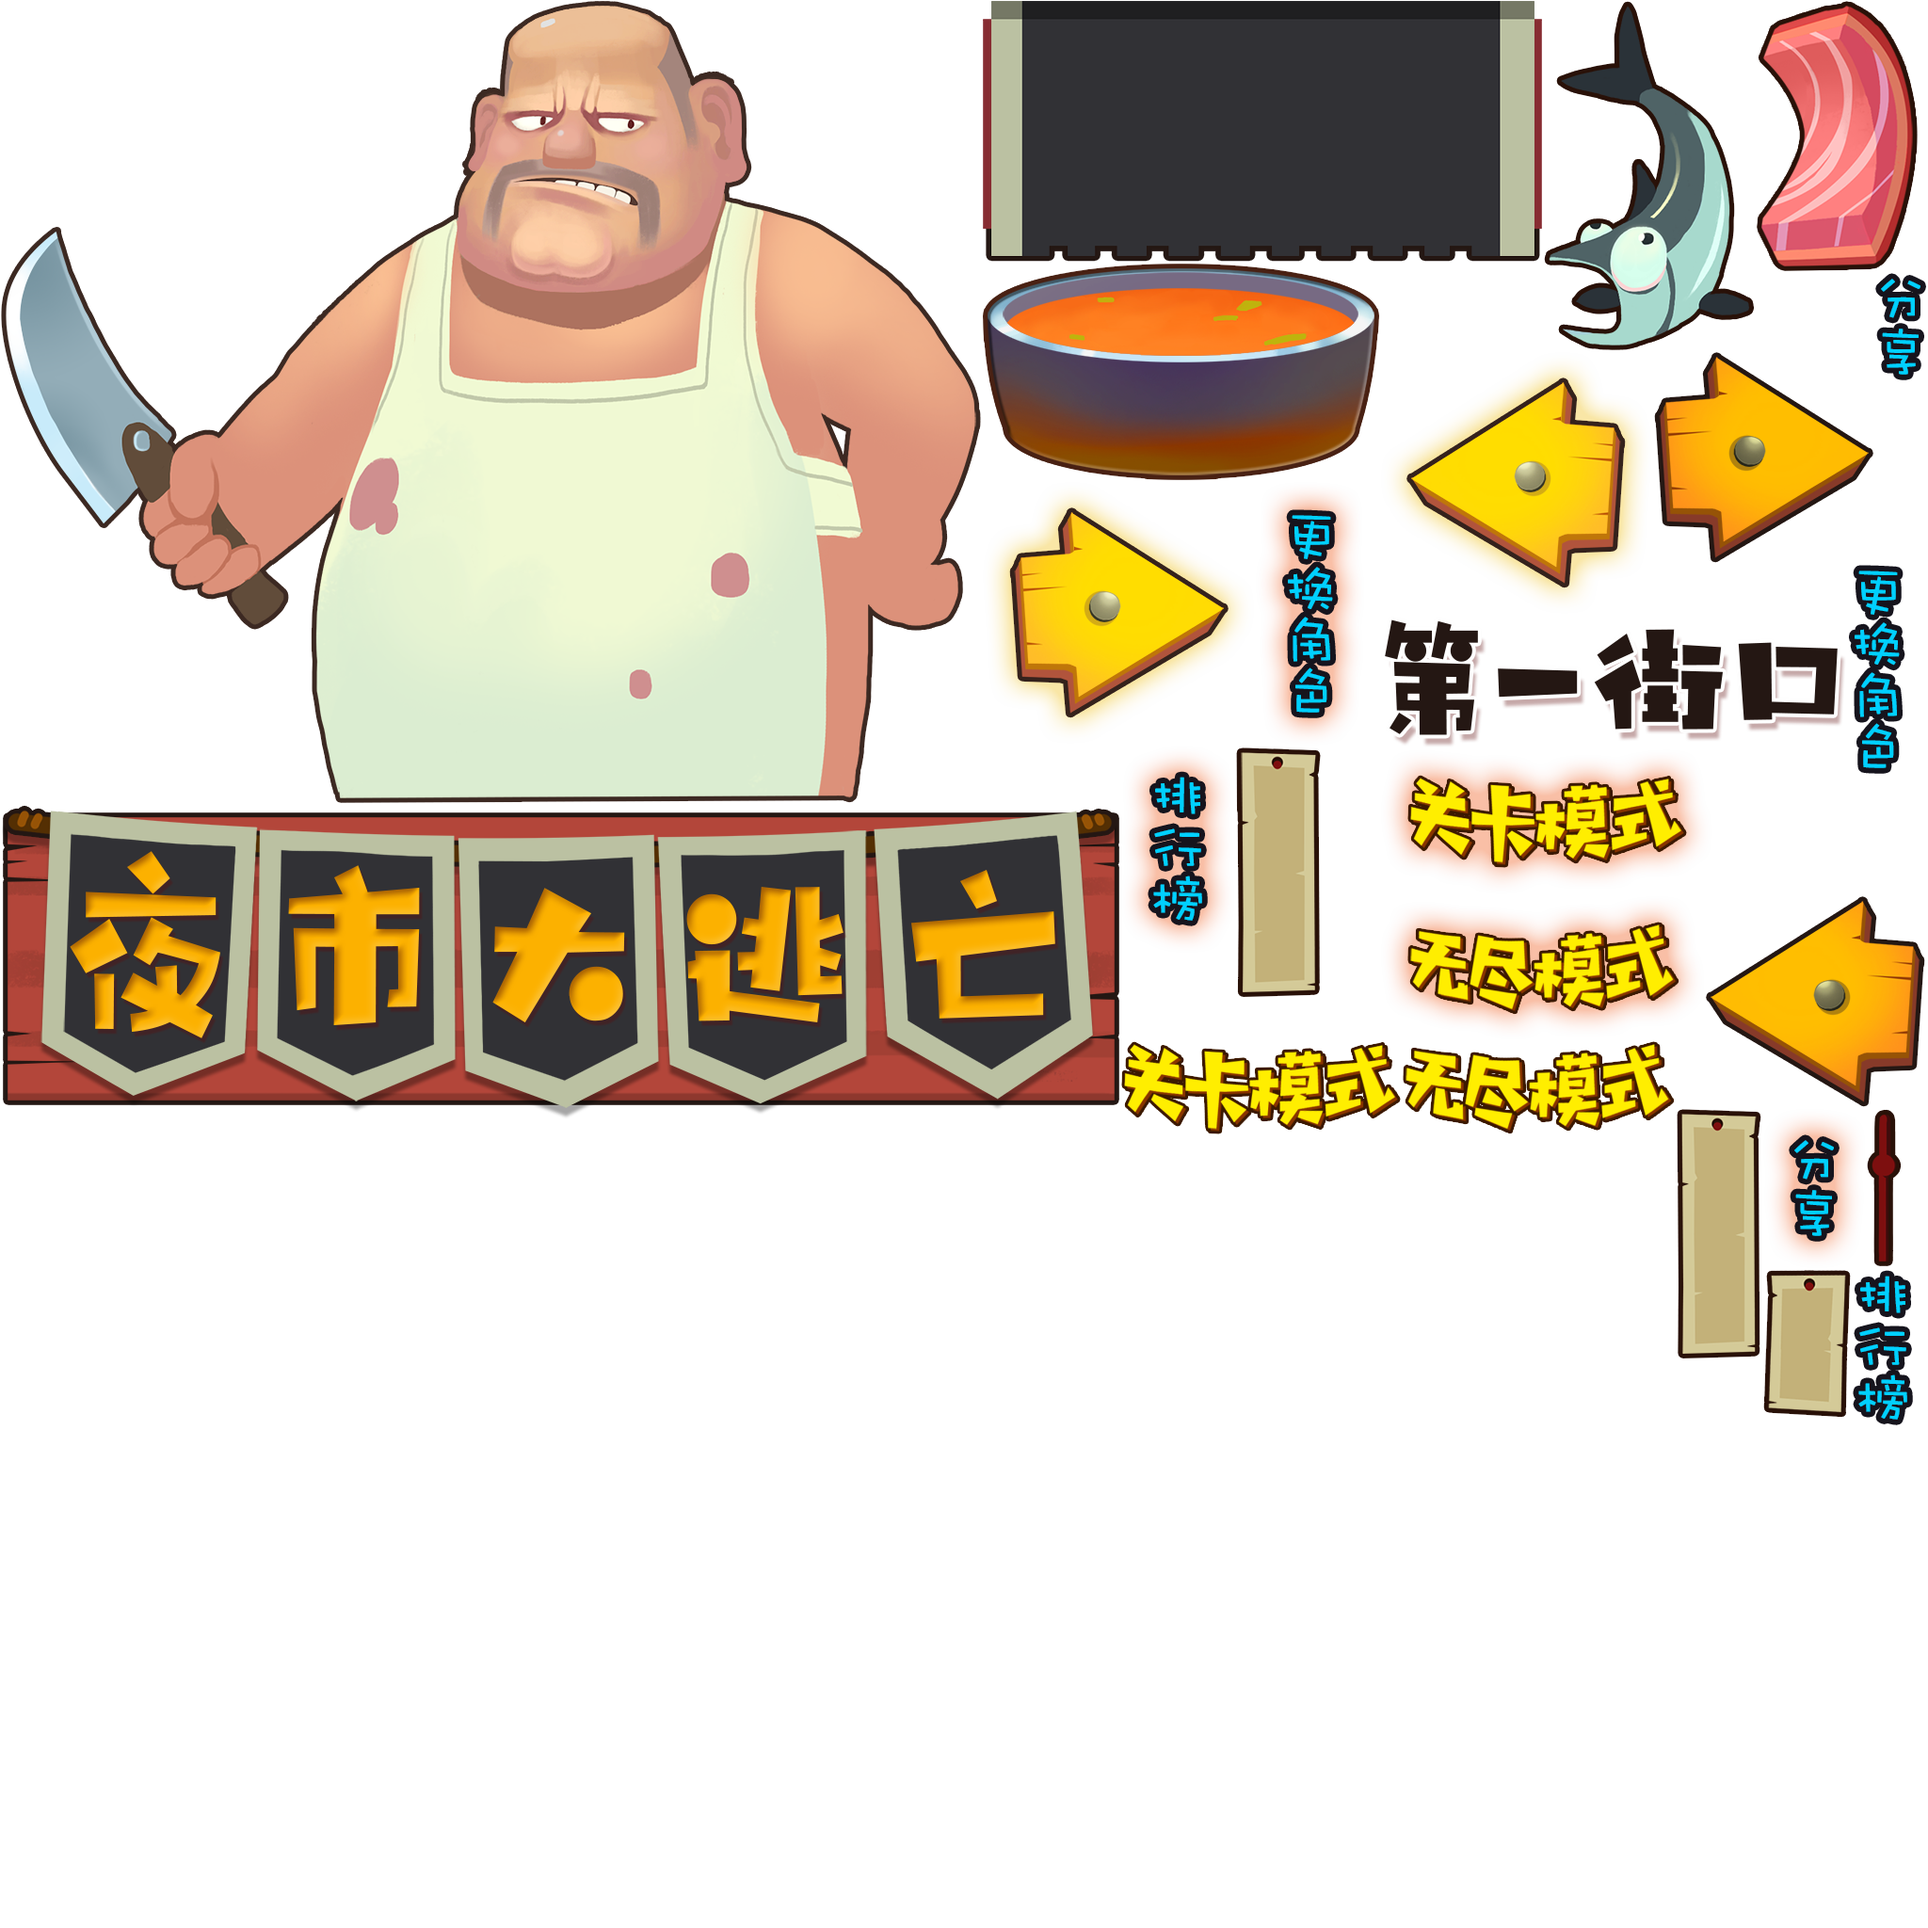
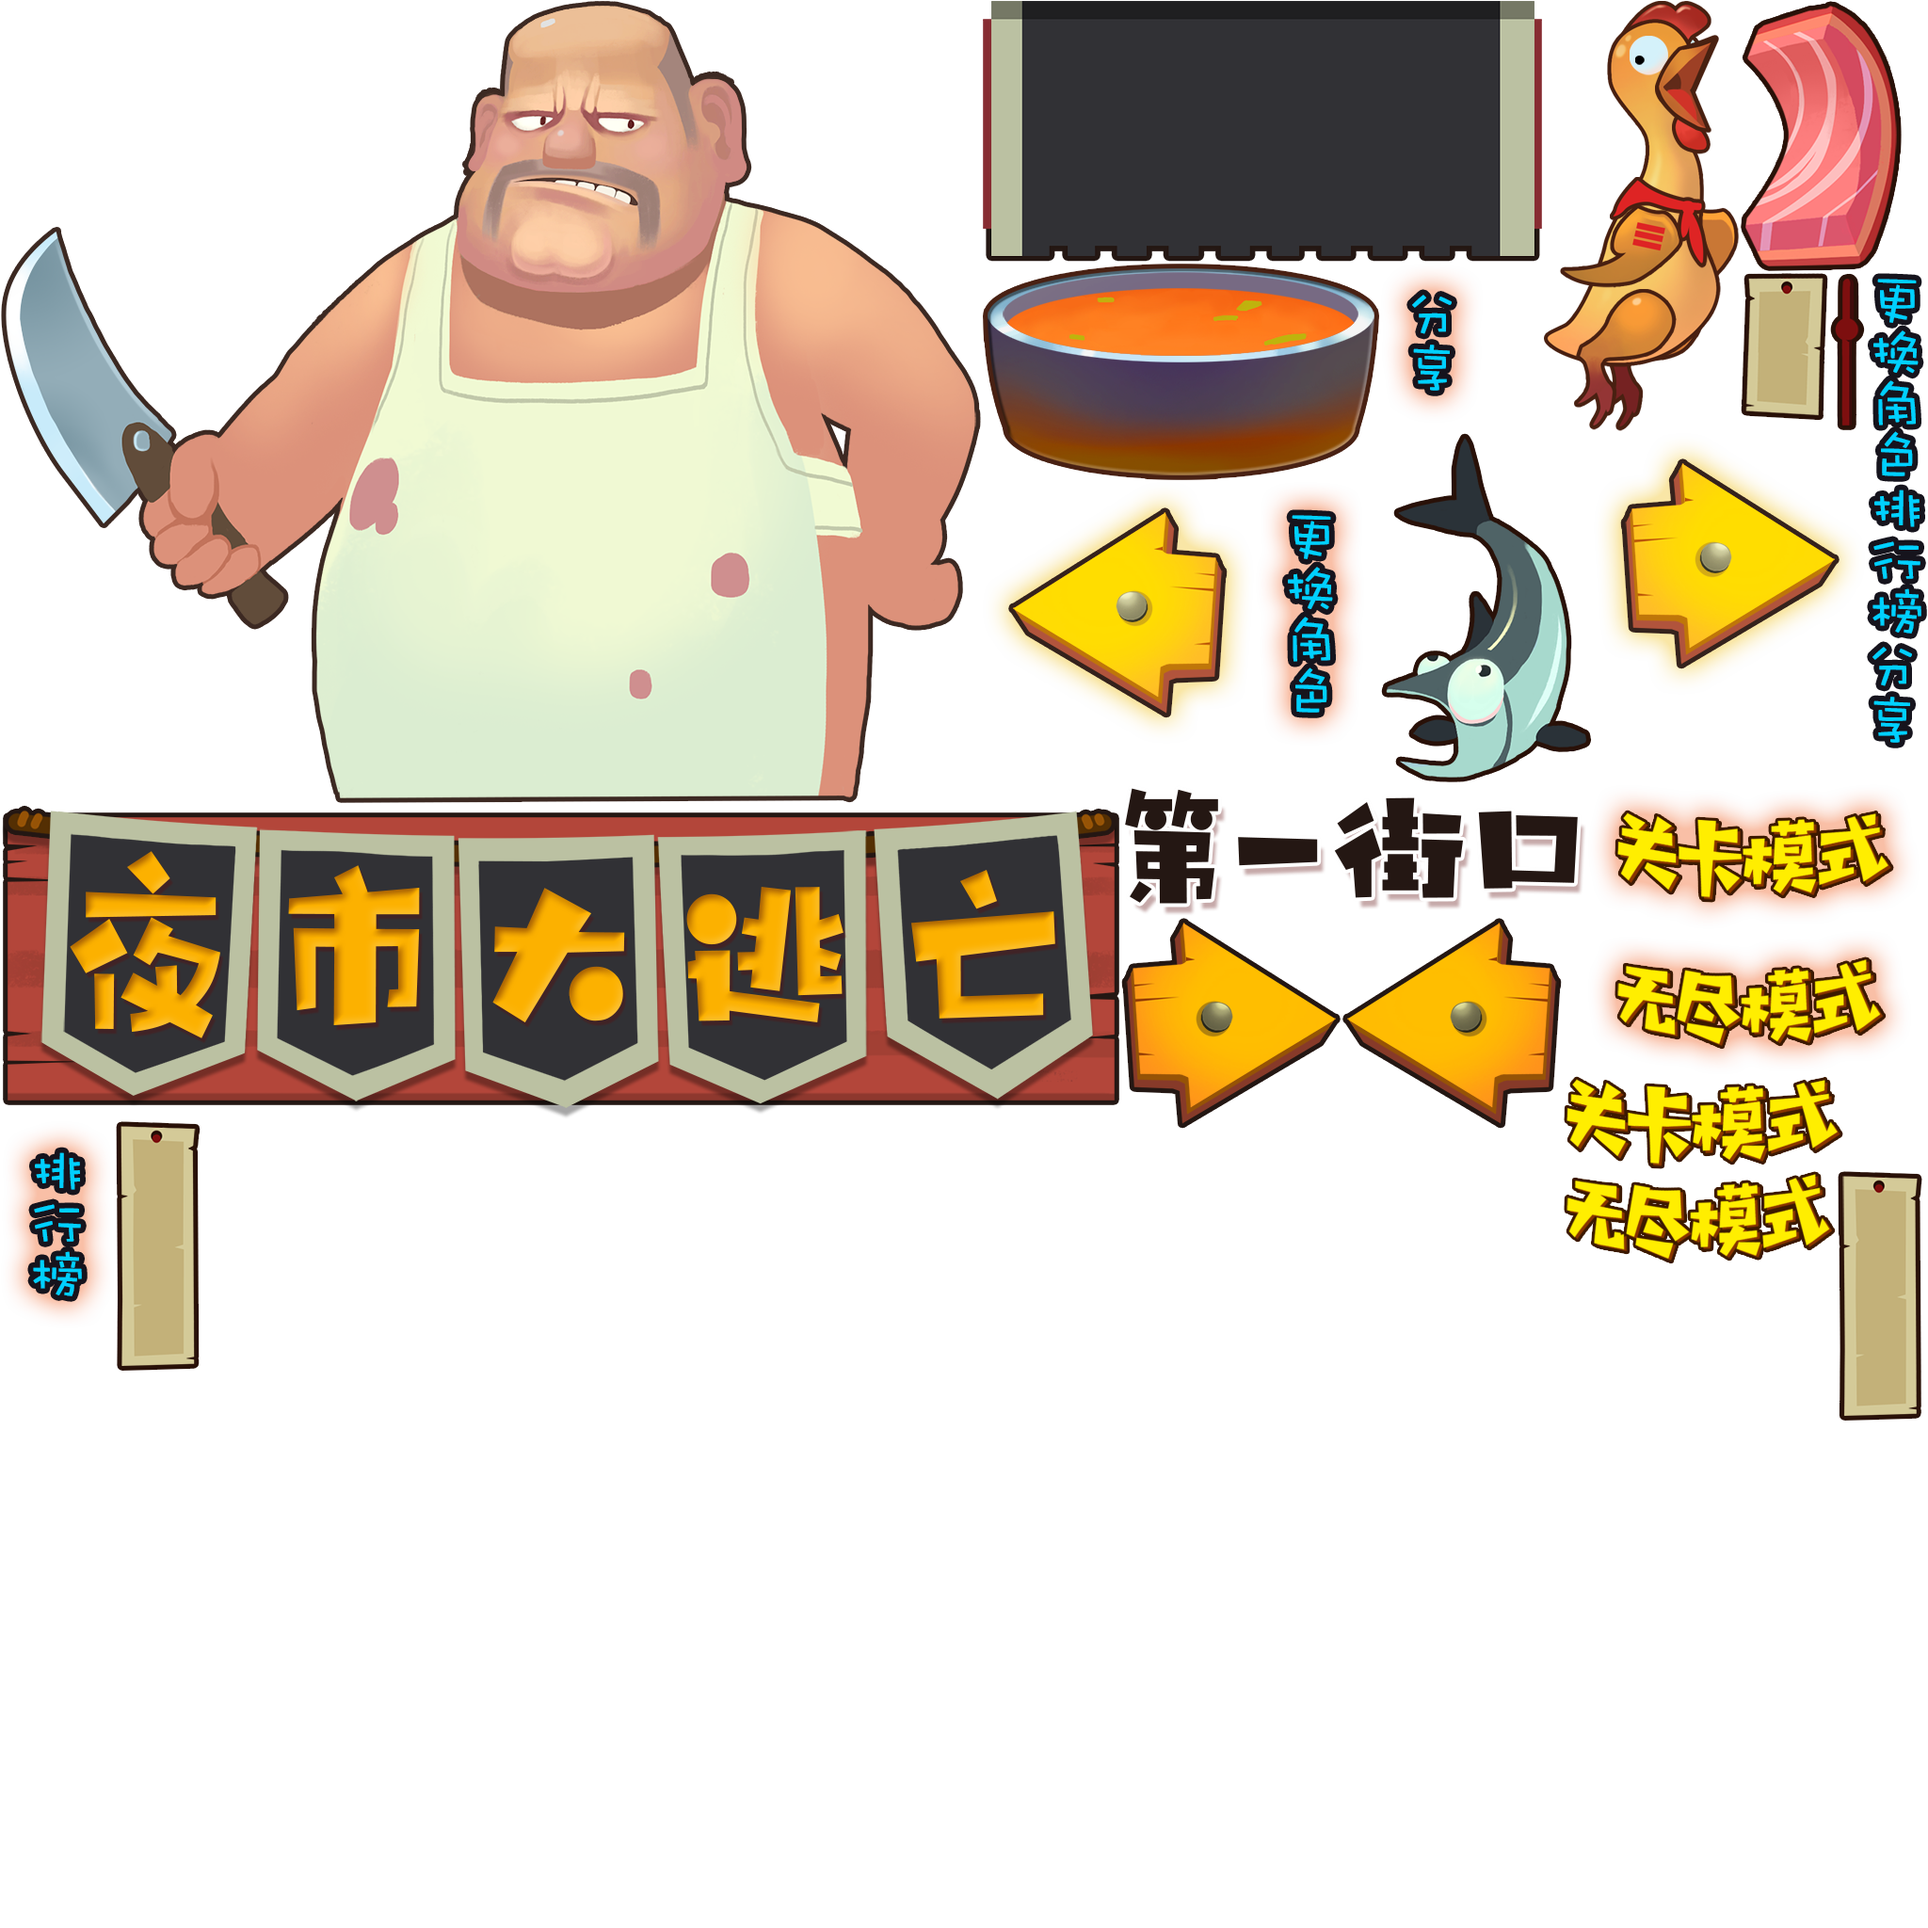
a

Changed region(s): [[0.5, 0.0, 1.0, 0.75], [0.0, 0.5625, 0.125, 0.7188]]

diff --git a/Jump/libs/exml.e.d.ts b/Jump/libs/exml.e.d.ts
@@ -6,9 +6,21 @@ declare class AlertPanelSkin extends eui.Skin{
 }
 declare class MainPanelSkin extends eui.Skin{
 }
+declare class FenxiangButtonSkin extends eui.Skin{
+}
+declare class GenhuanjueseButtonSkin extends eui.Skin{
+}
+declare class GuanqiaButtonSkin extends eui.Skin{
+}
+declare class LeftButtonSkin extends eui.Skin{
+}
+declare class PaihangButtonSkin extends eui.Skin{
+}
 declare class RankCellSkin extends eui.Skin{
 }
 declare class RankPanelSkin extends eui.Skin{
 }
 declare class RightButtonSkin extends eui.Skin{
+}
+declare class WujinButtonSkin extends eui.Skin{
 }

diff --git a/JumpOpenDataContext/index.html b/JumpOpenDataContext/index.html
@@ -28,8 +28,8 @@
          data-orientation="portrait"
          data-scale-mode="fixedWidth"
          data-frame-rate="60"
-         data-content-width="640"
-         data-content-height="1136"
+         data-content-width="1200"
+         data-content-height="1920"
          data-multi-fingered="2"
          data-show-fps="false" data-show-log="false"
          data-show-fps-style="x:0,y:0,size:12,textColor:0xffffff,bgAlpha:0.9">

diff --git a/Jump/index.html b/Jump/index.html
@@ -28,8 +28,8 @@
          data-orientation="auto"
          data-scale-mode="fixedWidth"
          data-frame-rate="60"
-         data-content-width="640"
-         data-content-height="1136"
+         data-content-width="1200"
+         data-content-height="1920"
          data-multi-fingered="2"
          data-show-fps="false" data-show-log="false"
          data-show-fps-style="x:0,y:0,size:12,textColor:0xffffff,bgAlpha:0.9">

diff --git a/Jump/template/runtime/native_require.js b/Jump/template/runtime/native_require.js
@@ -34,8 +34,8 @@ egret_native.egretStart = function () {
 		entryClassName: "Main",
 		frameRate: 60,
 		scaleMode: "fixedWidth",
-		contentWidth: 640,
-		contentHeight: 1136,
+		contentWidth: 1200,
+		contentHeight: 1920,
 		showPaintRect: false,
 		showFPS: false,
 		fpsStyles: "x:0,y:0,size:12,textColor:0xffffff,bgAlpha:0.9",
